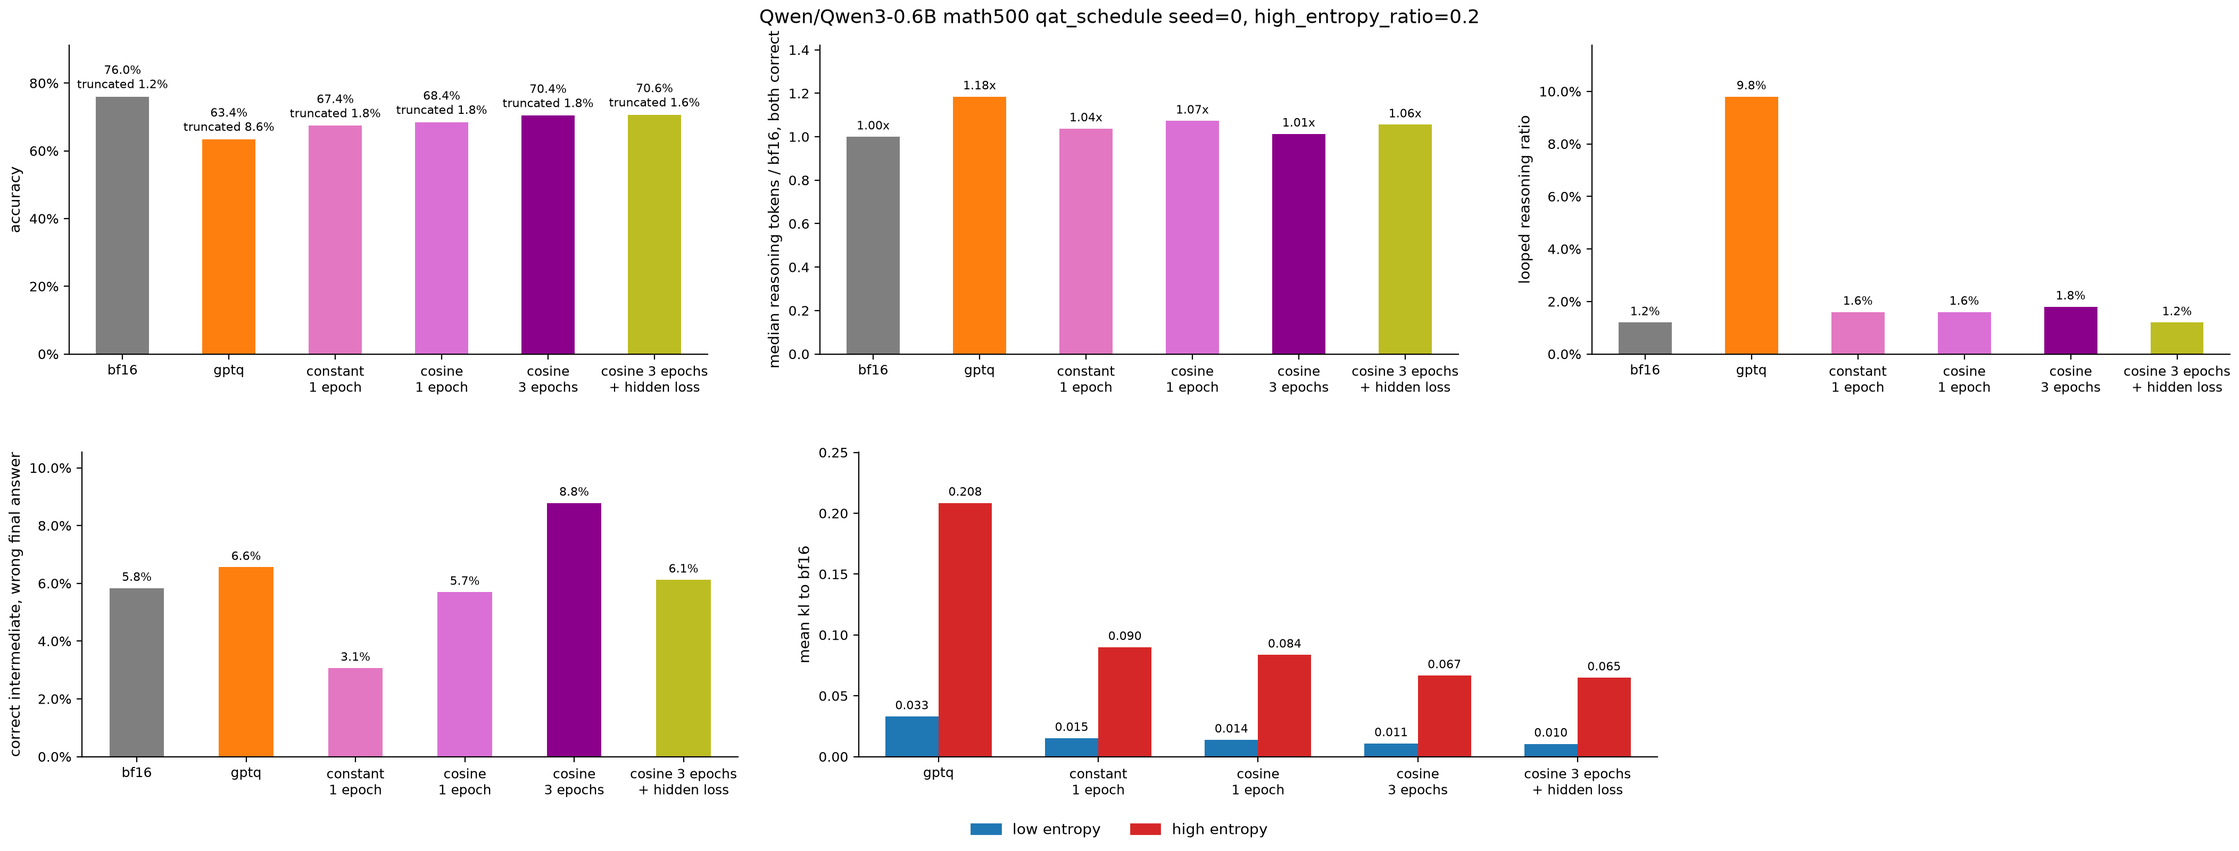
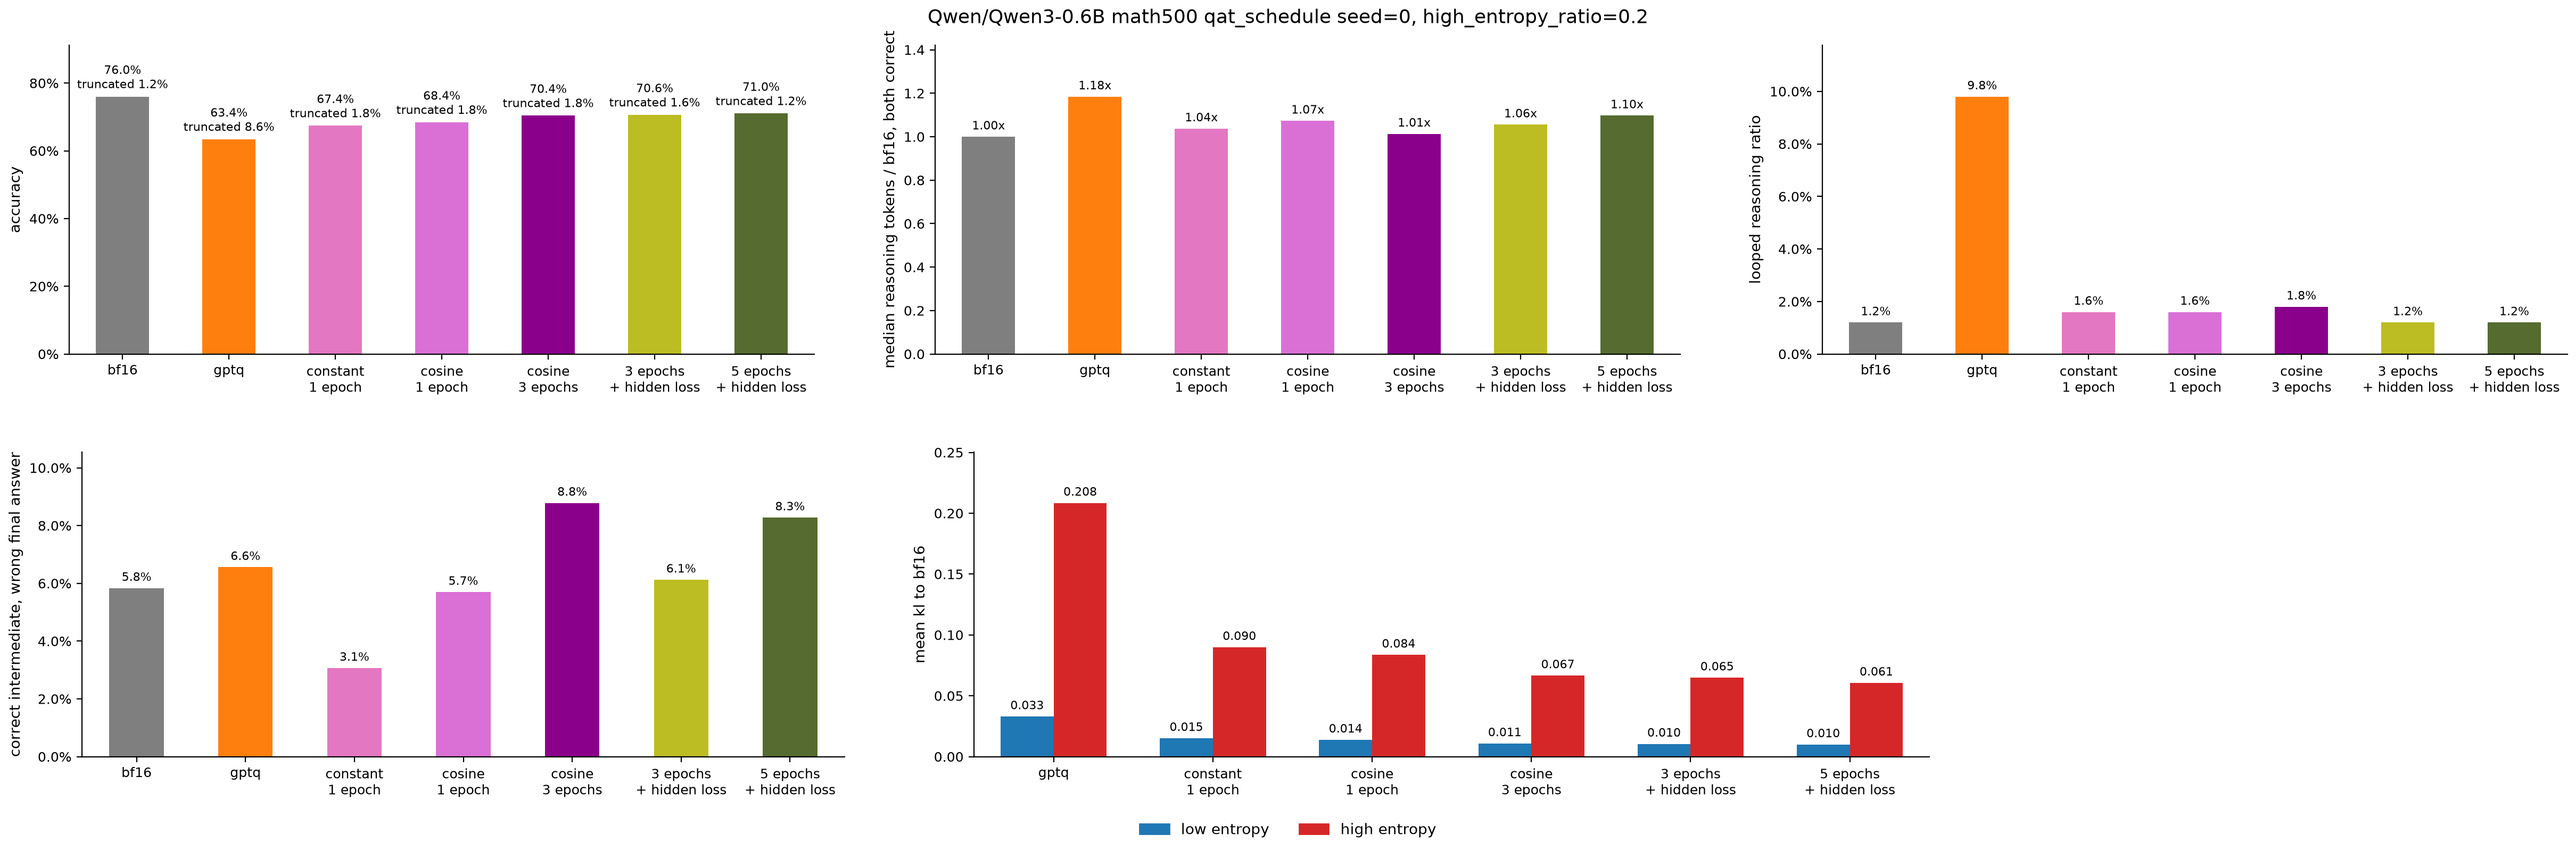
add 5 epochs to qat schedule plot

diff --git a/plots/qat_schedule.py b/plots/qat_schedule.py
@@ -6,7 +6,8 @@ SCHEDULE_VARIANTS = {
     "constant\n1 epoch": (2048, "kl", 0.0, False, 0.0, "constant", 1, "tab:pink"),
     "cosine\n1 epoch": (2048, "kl", 0.0, False, 0.0, "cosine", 1, "orchid"),
     "cosine\n3 epochs": (2048, "kl", 0.0, False, 0.0, "cosine", 3, "darkmagenta"),
-    "cosine 3 epochs\n+ hidden loss": (2048, "kl", 1.0, False, 0.0, "cosine", 3, "tab:olive"),
+    "3 epochs\n+ hidden loss": (2048, "kl", 1.0, False, 0.0, "cosine", 3, "tab:olive"),
+    "5 epochs\n+ hidden loss": (2048, "kl", 1.0, False, 0.0, "cosine", 5, "darkolivegreen"),
 }
 
 
